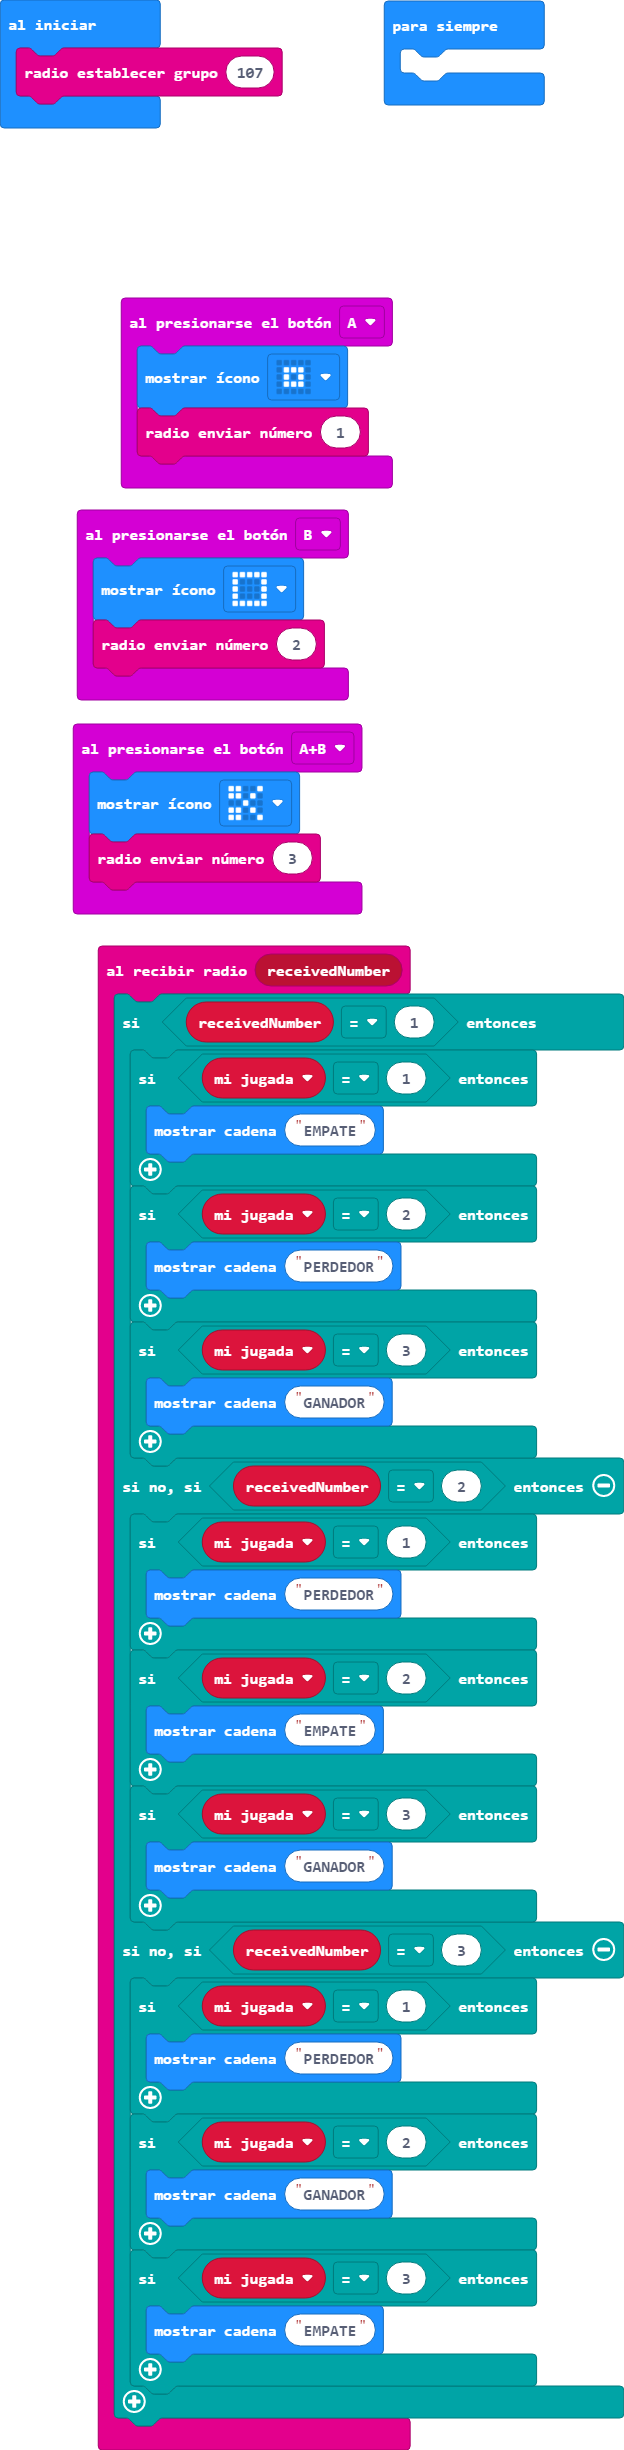
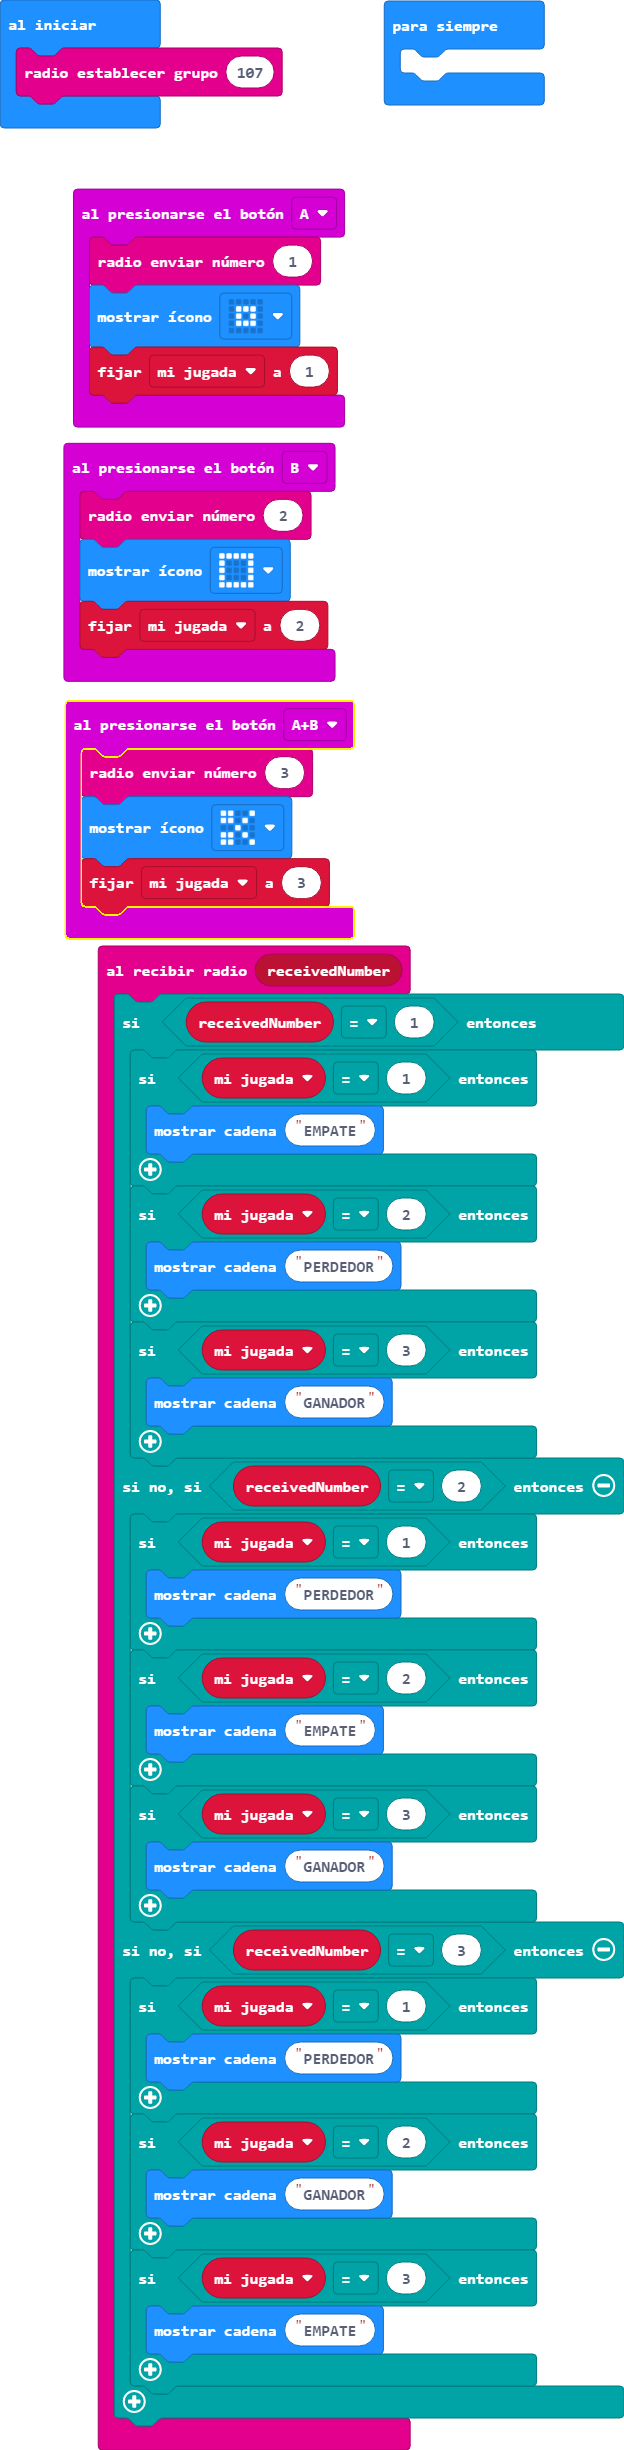
Actualizar main.blocks, main.ts

Changed region(s): [[0.0913, 0.062, 0.6394, 0.4033]]

diff --git a/main.ts b/main.ts
@@ -1,5 +1,4 @@
 radio.onReceivedNumber(function (receivedNumber) {
-    let mi_jugada = 0
     if (receivedNumber == 1) {
         if (mi_jugada == 1) {
             basic.showString("EMPATE")
@@ -33,17 +32,21 @@ radio.onReceivedNumber(function (receivedNumber) {
     }
 })
 input.onButtonPressed(Button.A, function () {
-    basic.showIcon(IconNames.SmallSquare)
     radio.sendNumber(1)
+    basic.showIcon(IconNames.SmallSquare)
+    mi_jugada = 1
 })
 input.onButtonPressed(Button.AB, function () {
-    basic.showIcon(IconNames.Scissors)
     radio.sendNumber(3)
+    basic.showIcon(IconNames.Scissors)
+    mi_jugada = 3
 })
 input.onButtonPressed(Button.B, function () {
-    basic.showIcon(IconNames.Square)
     radio.sendNumber(2)
+    basic.showIcon(IconNames.Square)
+    mi_jugada = 2
 })
+let mi_jugada = 0
 radio.setGroup(107)
 basic.forever(function () {
 	
